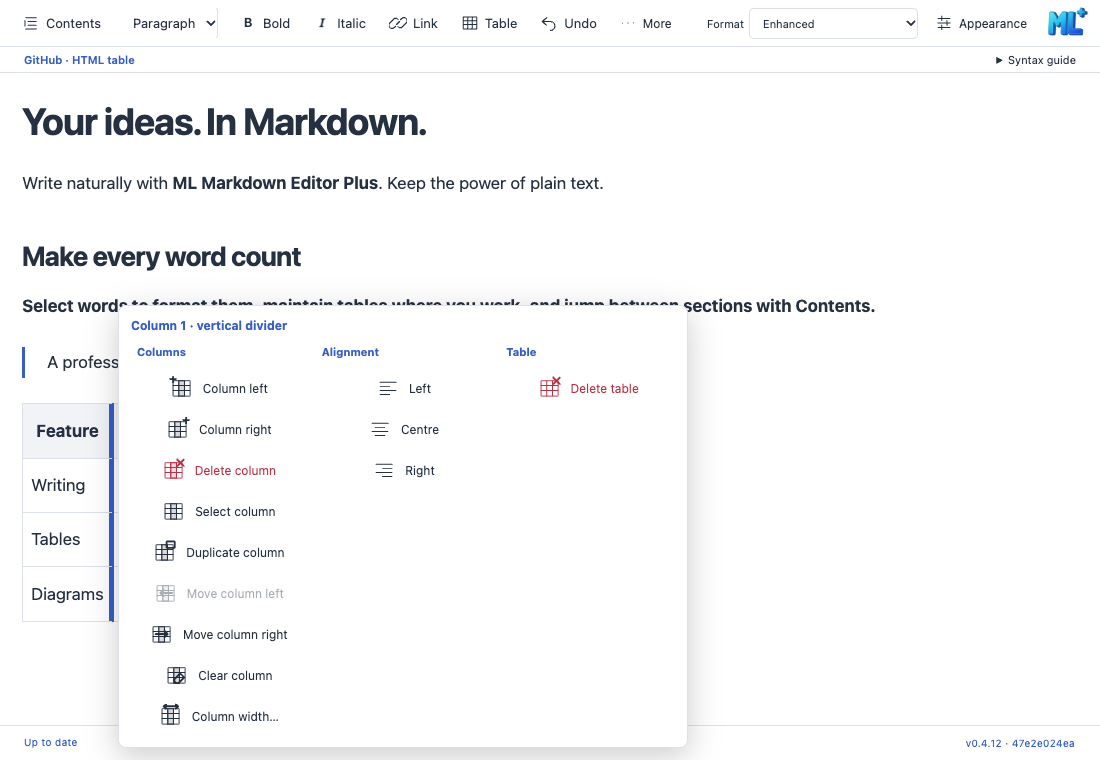
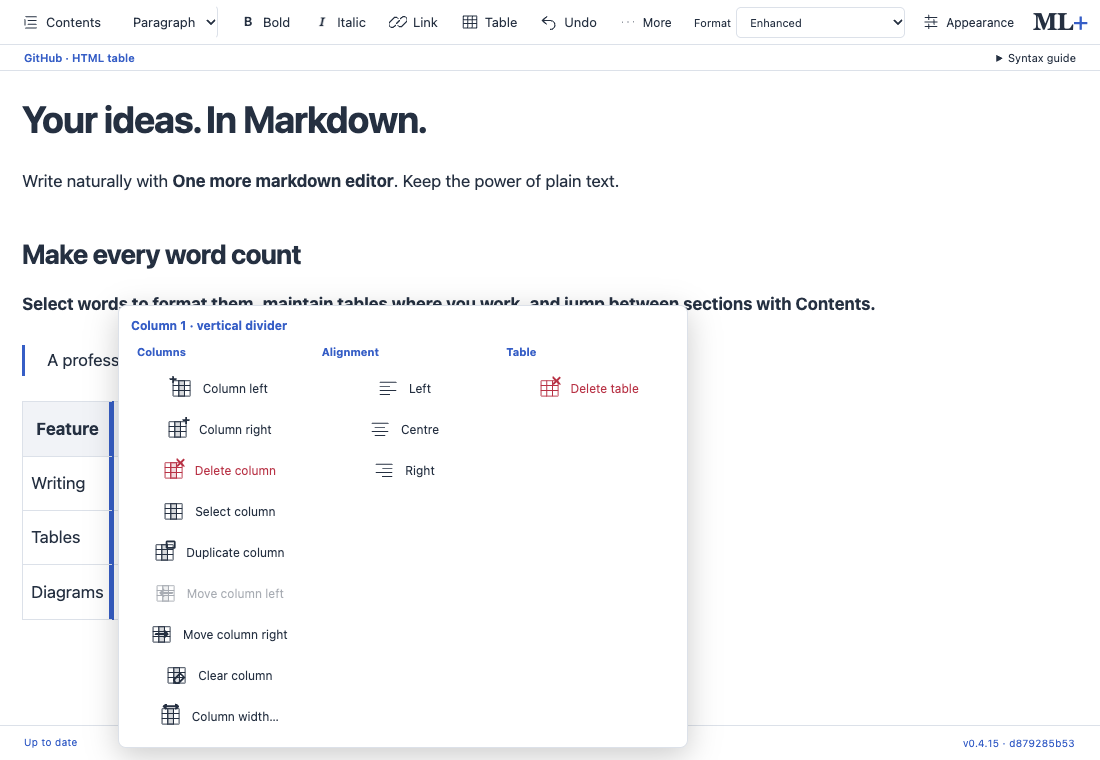
Update listing visuals for One more markdown editor

diff --git a/README.md b/README.md
@@ -1,3 +1,3 @@
-# ML Markdown Editor Plus media
+# One more markdown editor media
 
-Public ML+ branding, screenshots, and demonstrations for the ML Markdown Editor Plus Marketplace listing. This repository contains no extension source code.
+Public branding, screenshots, and demonstrations for the One more markdown editor Marketplace listing. This repository contains no extension source code.
